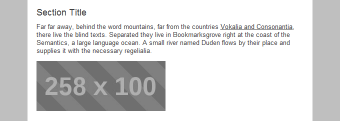
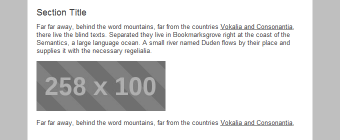
fixes #13655 additional mosaico block tweaks

Changed region(s): [[0.0882, 0.1488, 0.8824, 0.5207], [0.0882, 0.5455, 0.8824, 0.9174], [0.0882, 0.0496, 0.2647, 0.1488]]

diff --git a/civicrm/custom/mosaico/nyssbase/template-nyssbase.html b/civicrm/custom/mosaico/nyssbase/template-nyssbase.html
@@ -655,6 +655,15 @@
                 </a>
               </td>
             </tr>
+            <tr><td><table align="left" border="0" cellpadding="0" cellspacing="0" width="100%">
+              <tr>
+                <td align="left" style="text-align: left; font-size: 13px; font-family: Arial, Helvetica, sans-serif; color: #3f3f3f;
+              -ko-font-size: @[textStyle.size]px; -ko-font-family: @textStyle.face; -ko-color: @textStyle.color"
+                    data-ko-editable="shortText" class="long-text links-color">
+                  <p>Name, title, closing text.</p>
+                </td>
+              </tr>
+            </table></td></tr>
           </table>
         </div>
         <!--[if (gte mso 9)|(lte ie 8)]></td></tr></table><![endif]-->
